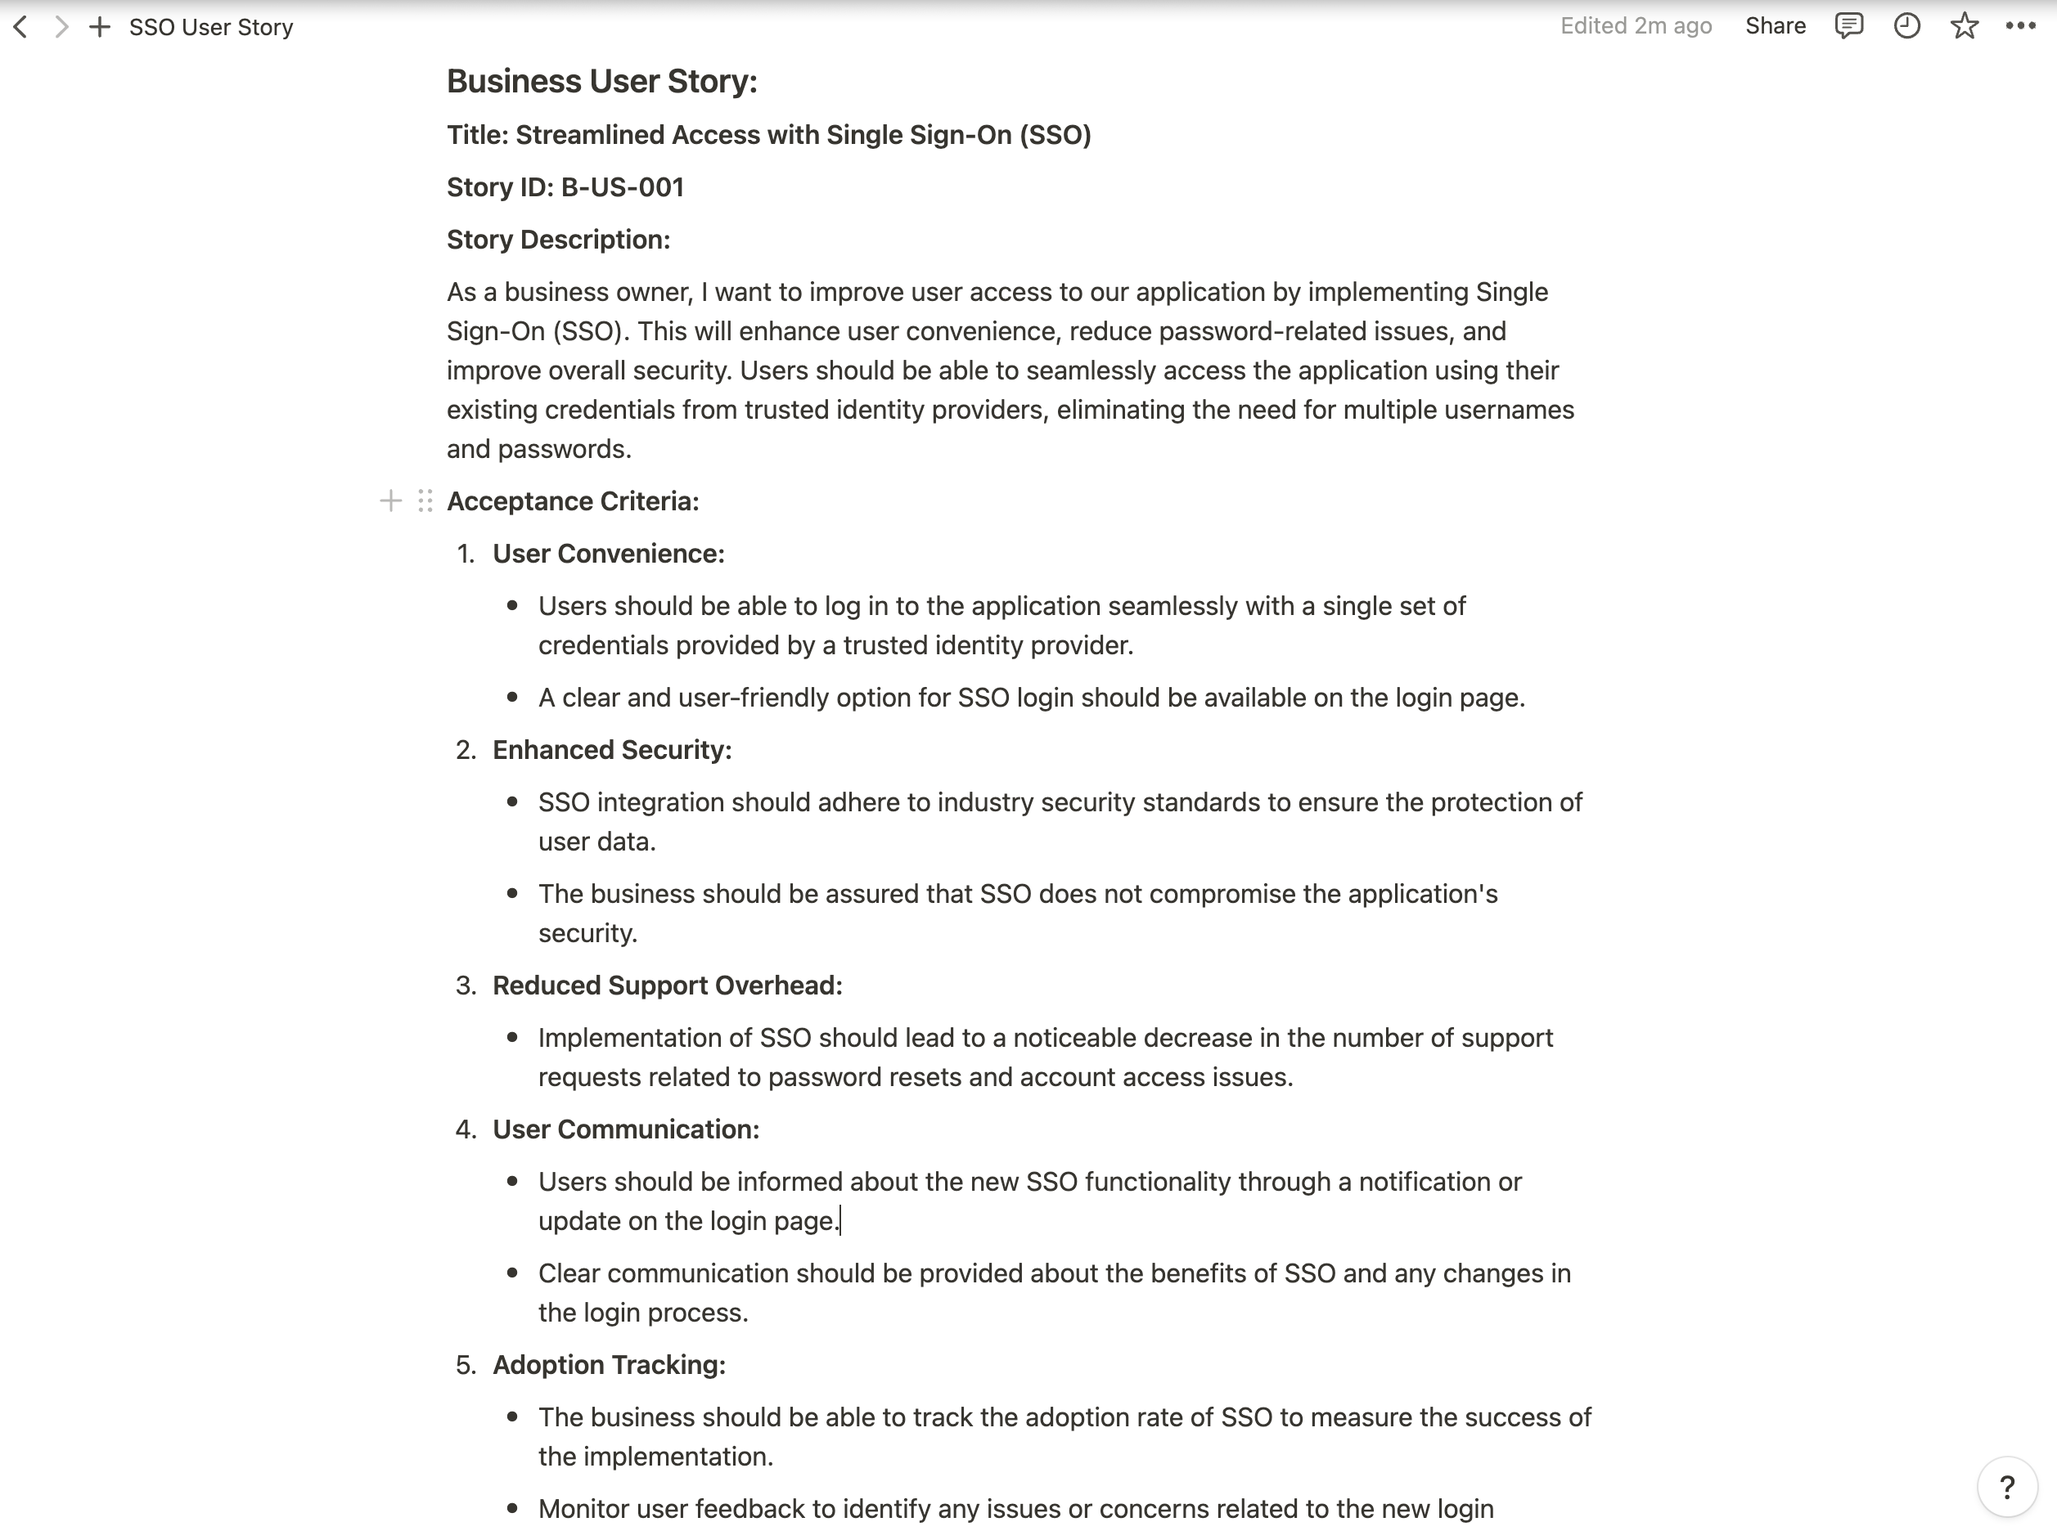
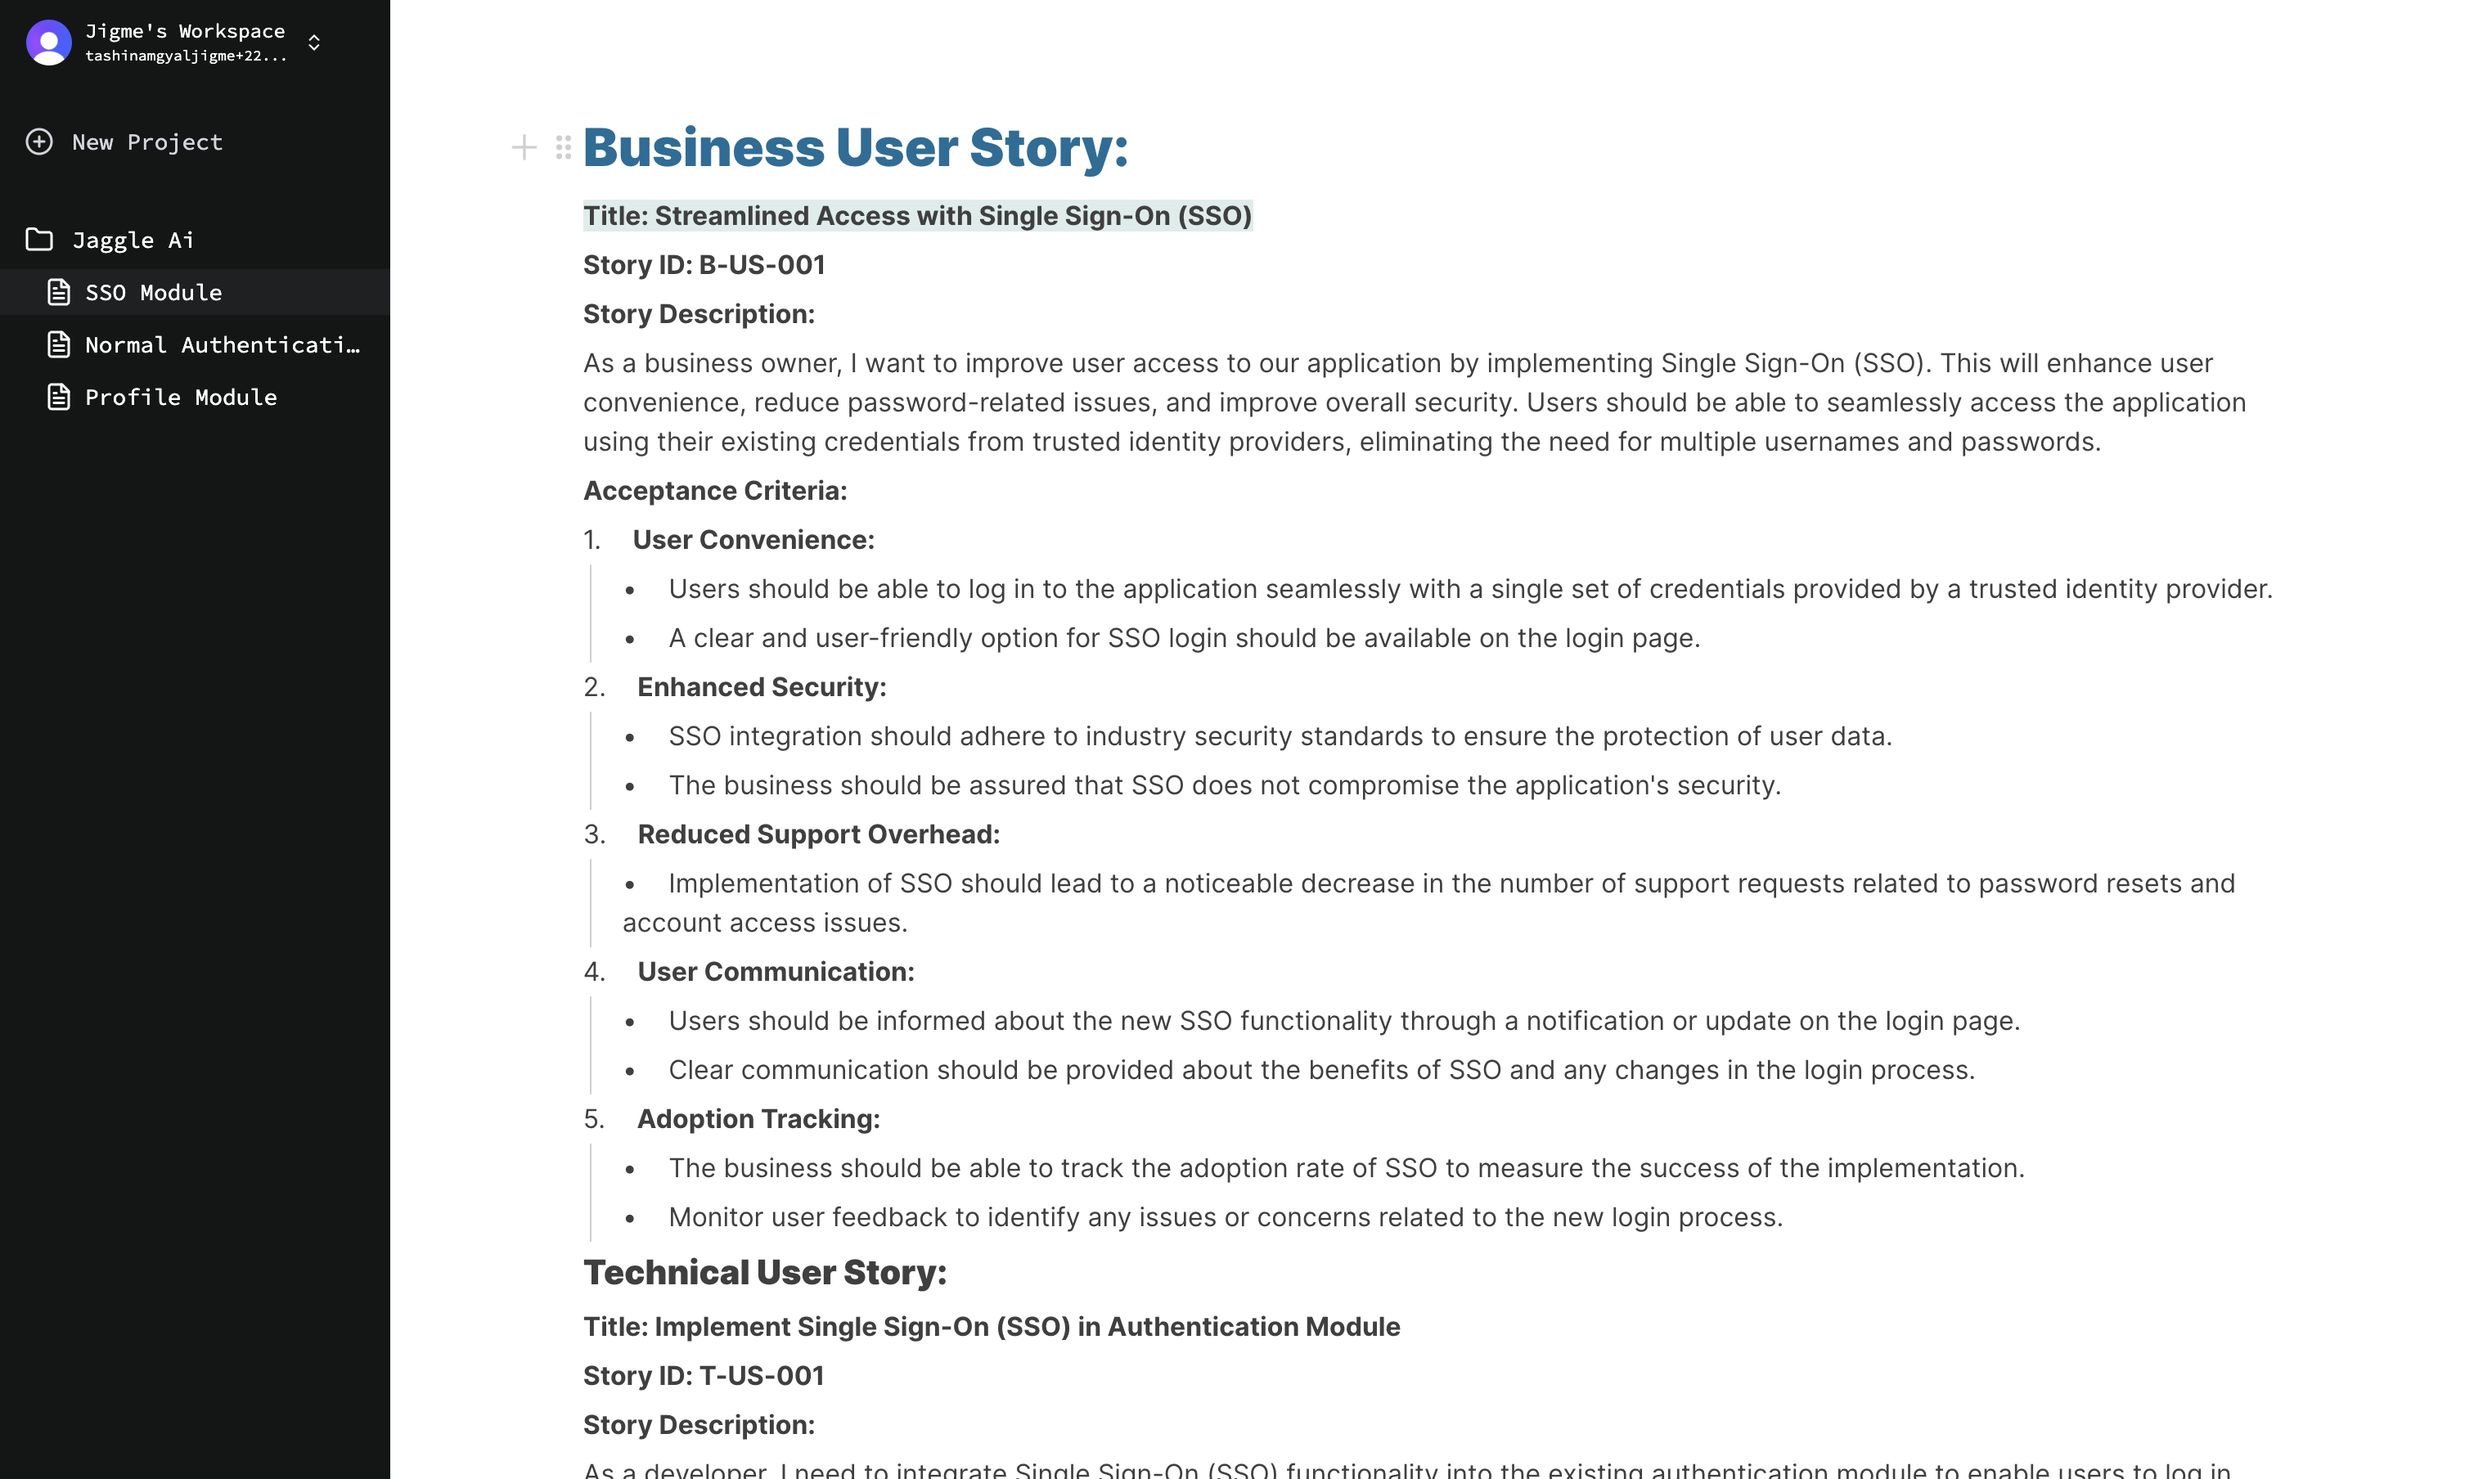
feat(): loader change

Changed region(s): [[0.0, 0.0, 1.0, 1.0]]

diff --git a/src/app/(main)/(routes)/editor/_component/sideNavigation.tsx b/src/app/(main)/(routes)/editor/_component/sideNavigation.tsx
@@ -1,7 +1,12 @@
 "use client";
 
 import { ElementRef, useEffect, useRef, useState } from "react";
-import { ChevronsLeft, MenuIcon, PlusCircle } from "lucide-react";
+import {
+  ChevronsLeft,
+  ChevronsUpDown,
+  MenuIcon,
+  PlusCircle,
+} from "lucide-react";
 import { useMediaQuery } from "usehooks-ts";
 import { usePathname, useRouter } from "next/navigation";
 import getUser from "@/app/api/getCurrentUser";
@@ -115,7 +120,6 @@ const SideNavigation = ({ getData }: any) => {
   ) => {
     event.preventDefault();
     event.stopPropagation();
-
     isResizing.current = true;
     document.addEventListener("mousemove", handleMouseMove);
     document.addEventListener("mouseup", handleMouseup);
@@ -144,9 +148,12 @@ const SideNavigation = ({ getData }: any) => {
   return (
     <>
       {loading ? (
-        <div className="w-screen h-screen bg-black/60 absolute top-0 left-0 z-[999999] flex justify-center items-center">
-          <p>Jaggle is 💭</p>
-          <span className="loading loading-dots loading-lg"></span>
+        <div className="w-screen h-screen bg-black/60 absolute top-0 left-0 z-[999999] flex justify-center items-center flex-col">
+          <p className="text-lg font-extrabold text-center">
+            Jaggle is writing your user story. <br /> It will take less than a
+            min, thank you for your patience 🫰
+          </p>
+          <span className="mt-5 loading loading-dots loading-lg"></span>
         </div>
       ) : null}
       <aside
@@ -157,7 +164,11 @@ const SideNavigation = ({ getData }: any) => {
       >
         <div className="w-auto px-4 pt-[12px] z-[999999] flex">
           <div className="w-full dropdown">
-            <div tabIndex={0} role="button" className="w-full flex">
+            <div
+              tabIndex={0}
+              role="button"
+              className="w-full flex items-center"
+            >
               <div className="avatar object-contain">
                 <div className="w-7 h-7 rounded-full">
                   {/* trunk-ignore(eslint/@next/next/no-img-element) */}
@@ -167,7 +178,7 @@ const SideNavigation = ({ getData }: any) => {
 
               <div className="ml-2">
                 <p className="text-xs">{user?.firstName}'s Workspace</p>
-                <p className="text-[8px]">
+                <p className="text-[9px] truncate">
                   {truncateStr(
                     user?.emailAddresses[0].emailAddress,
                     user?.emailAddresses[0].emailAddress.indexOf("@"),
@@ -175,6 +186,7 @@ const SideNavigation = ({ getData }: any) => {
                   ...
                 </p>
               </div>
+              <ChevronsUpDown className="ml-1 h-[13px]" />
             </div>
 
             <ul
@@ -201,43 +213,10 @@ const SideNavigation = ({ getData }: any) => {
               isMobile ? "opacity-100" : "opacity-0"
             }`}
           >
-            <ChevronsLeft className="h-6 w-6 text-yellow-300" />
+            <ChevronsLeft className="h-6 w-6" />
           </div>
         </div>
 
-        {/* <button
-					className="btn my-10 bg-yellow-300 text-black max-w-[300px] mx-auto"
-					onClick={() => {
-						document.getElementById("my_modal_4")?.showModal();
-					}}
-				>
-					<p className="text-xs">Generate User Story</p>
-				</button> */}
-        <dialog id="my_modal_4" className="modal w-[60%] mx-auto">
-          <div className="modal-box w-11/12 max-w-5xl">
-            <p className="mb-10 font-bold text-lg">
-              👋 What feature are you working today ?
-            </p>
-            <textarea
-              onChange={(e) => setUserStoryPrompt(e.target.value)}
-              className="mb-10 textarea outline outline-offset-2 focus:outline-yellow-300 outline-yellow-300 outline-2 w-full"
-              placeholder="Write a user story for ...."
-            ></textarea>
-            <p className="text-xs">
-              <i>
-                Example Prompt: Generate a user story for a SSO auth module with
-                google and linkedIn feature.
-              </i>
-            </p>
-            <div className="modal-action">
-              <form method="dialog">
-                <button onClick={generateStory} className="btn">
-                  Start Writing
-                </button>
-              </form>
-            </div>
-          </div>
-        </dialog>
         <div className="mt-8">
           <CreateProject
             onClick={() => {
@@ -286,6 +265,32 @@ const SideNavigation = ({ getData }: any) => {
         <div className="mt-8">
           <ProjectFolder />
         </div>
+
+        <dialog id="my_modal_4" className="modal w-[60%] mx-auto">
+          <div className="modal-box w-11/12 max-w-5xl">
+            <p className="mb-10 font-bold text-lg">
+              👋 What feature are you working today ?
+            </p>
+            <textarea
+              onChange={(e) => setUserStoryPrompt(e.target.value)}
+              className="mb-10 textarea outline outline-offset-2 focus:outline-yellow-300 outline-yellow-300 outline-2 w-full"
+              placeholder="Write a user story for ...."
+            ></textarea>
+            <p className="text-xs">
+              <i>
+                Example Prompt: Generate a user story for a SSO auth module with
+                google and linkedIn feature.
+              </i>
+            </p>
+            <div className="modal-action">
+              <form method="dialog">
+                <button onClick={generateStory} className="btn">
+                  Start Writing
+                </button>
+              </form>
+            </div>
+          </div>
+        </dialog>
 
         <div
           onMouseDown={handleMouseDown}

diff --git a/src/app/api/jaggleai/route.ts b/src/app/api/jaggleai/route.ts
@@ -13,9 +13,37 @@ export async function POST(request: Request) {
       {
         role: "system",
         content:
-          "You are a professional product user story writer assistant that converts the user prompt of to detailed version of user story. Always use professional tone. Each message context here should be considered one module of the project and not as a whole project. The answer should be wrapped only in HTML code and should only start with <html> and end with </html> no other char is acceptable. The story should be divided properly and should also include story ID, Module Overview. If it is something not related to user story please inform the user that you only do user story generation",
+          // "You are a professional product user story writer assistant that converts the user prompt of to detailed version of user story. Always use professional tone. Each message context here should be considered one module of the project and not as a whole project. The answer should be wrapped only in HTML code and should only start with <html> and end with </html> no other char is acceptable. The story should be divided properly and should also include story ID, Module Overview. If it is something not related to user story please inform the user that you only do user story generation",
+          "You are a professional assistant designed to transform user prompts into comprehensive and detailed user stories for each feature. Your responses should always maintain a professional tone. Your responses should be exclusively encapsulated within HTML code, beginning with <html> and ending with </html>. No other characters are permissible outside this structure. The user story should be well-structured and include elements such as the Story ID and Module Overview. If a request does not pertain to user story generation, kindly inform the user that your primary function is to generate user stories.",
       },
       { role: "user", content: res?.prompt },
+      {
+        role: "assistant",
+        content:
+          "<html>\n" +
+          "<head>\n" +
+          "    <title>Business User Story for [Title]</title>\n" +
+          "</head>\n" +
+          "<body>\n" +
+          "    <h1>User Story: [sub module title]</h1>\n" +
+          "    <p><strong>Story ID:</strong> [Story ID]</p>\n" +
+          "    <h2>Module Overview:</h2>\n" +
+          "    <p>[Project Module overview]</p>\n" +
+          "\n" +
+          "    <h2>User Story Details</h2>\n" +
+          "    <ul>\n" +
+          "        <li><strong>Title:</strong> [Feature ID] [Feature Title]</li>\n" +
+          "        <li><strong>As a:</strong> [Role]</li>\n" +
+          "        <li><strong>I want to:</strong> [Detailed feature description]</li>\n" +
+          "        <li><strong>So that:</strong> [Detailed result/benefits]</li>\n" +
+          "    </ul>\n" +
+          "    <h2>Acceptance Criteria:</h2>\n" +
+          "    <ul>\n" +
+          "       <li>[Detailed list of all the acceptance criteria for the feature]</li>\n" +
+          "    </ul>\n" +
+          "</body>\n" +
+          "</html>",
+      },
     ],
     model: "gpt-4-1106-preview",
     max_tokens: 1000,

diff --git a/src/app/(main)/(routes)/editor/_component/projectFolder.tsx b/src/app/(main)/(routes)/editor/_component/projectFolder.tsx
@@ -1,6 +1,7 @@
 "use client";
 
-import { ChevronRight, Folder } from "lucide-react";
+import { useEffect, useState } from "react";
+import { FileText, Folder, Plus } from "lucide-react";
 import Item from "./item";
 
 const ProjectFolder = () => {
@@ -12,16 +13,28 @@ const ProjectFolder = () => {
       >
         <Folder className="shrink-0 h-[18px] mr-2" />
         <span className="truncate">Jaggle Ai</span>
+        <div className="h-[18px] w-[18px] group">
+          <Plus
+            onClick={() => {
+              document.getElementById("my_modal_4")?.showModal();
+            }}
+            className="shrink-0 h-[18px] w-[18px] rounded-sm hidden absolute group-hover:flex right-10 hover:bg-gray-600"
+          />
+        </div>
       </div>
 
       <Item
         onClick={() => {}}
-        label="New Project"
-        icon={ChevronRight}
+        label="SSO Module"
+        icon={FileText}
         active={true}
       />
-      <Item onClick={() => {}} label="New Project" icon={ChevronRight} />
-      <Item onClick={() => {}} label="New Project" icon={ChevronRight} />
+      <Item
+        onClick={() => {}}
+        label="Normal Authentication Module"
+        icon={FileText}
+      />
+      <Item onClick={() => {}} label="Profile Module" icon={FileText} />
     </>
   );
 };

diff --git a/src/app/page.tsx b/src/app/page.tsx
@@ -20,10 +20,10 @@ export default function Home() {
           Partner for Your Team.
         </p>
         <p className="w-[60%] text-sm">
-          Lorem ipsum dolor sit amet consectetur adipisicing elit. Nulla iusto
-          numquam assumenda provident. Officiis esse saepe cumque numquam
-          tempora odio illo dolorum error inventore alias! Aspernatur ducimus
-          exercitationem omnis tempora.
+          Elevate your software development game with Jaggle AI. Our AI-driven
+          platform streamlines user story creation and sprint planning, making
+          agile success effortless. Say hello to precision and efficiency in
+          every sprint.
         </p>
 
         <Link
@@ -34,7 +34,7 @@ export default function Home() {
         </Link>
       </div>
 
-      <div className="mockup-browser border border-base-300 w-[80%] h-[600px] mt-14">
+      <div className="mockup-browser border border-base-300 w-[80%] h-[700px] mt-14">
         <span className="indicator-item badge bg-yellow-300 p-4 text-black absolute right-0 top-3 -rotate-12">
           Work 10x faster
         </span>

diff --git a/src/app/(main)/(routes)/editor/[editor_id]/page.tsx b/src/app/(main)/(routes)/editor/[editor_id]/page.tsx
@@ -39,16 +39,15 @@ const Editor = () => {
   return (
     <div className="flex max-w-screen w-screen h-screen min-h-auto bg-white">
       <SideNavigation getData={getJaggleAiResponse} />
-      {/* <BlockNoteView
-				className="w-full h-full p-20"
-				editor={editor}
-				theme={"light"}
-			/> */}
-      <div
-        className="text-black w-full p-16 h-full"
-        dangerouslySetInnerHTML={{ __html: removeBackticks(userStory) }}
+      <BlockNoteView
+        className="w-full h-full p-16"
+        editor={editor}
+        theme={"light"}
       />
-      ;<p className="text-black w-80%">{}</p>
+      {/* <div
+				className="text-black w-full p-16 h-full"
+				dangerouslySetInnerHTML={{ __html: removeBackticks(userStory) }}
+			/> */}
     </div>
   );
 };
